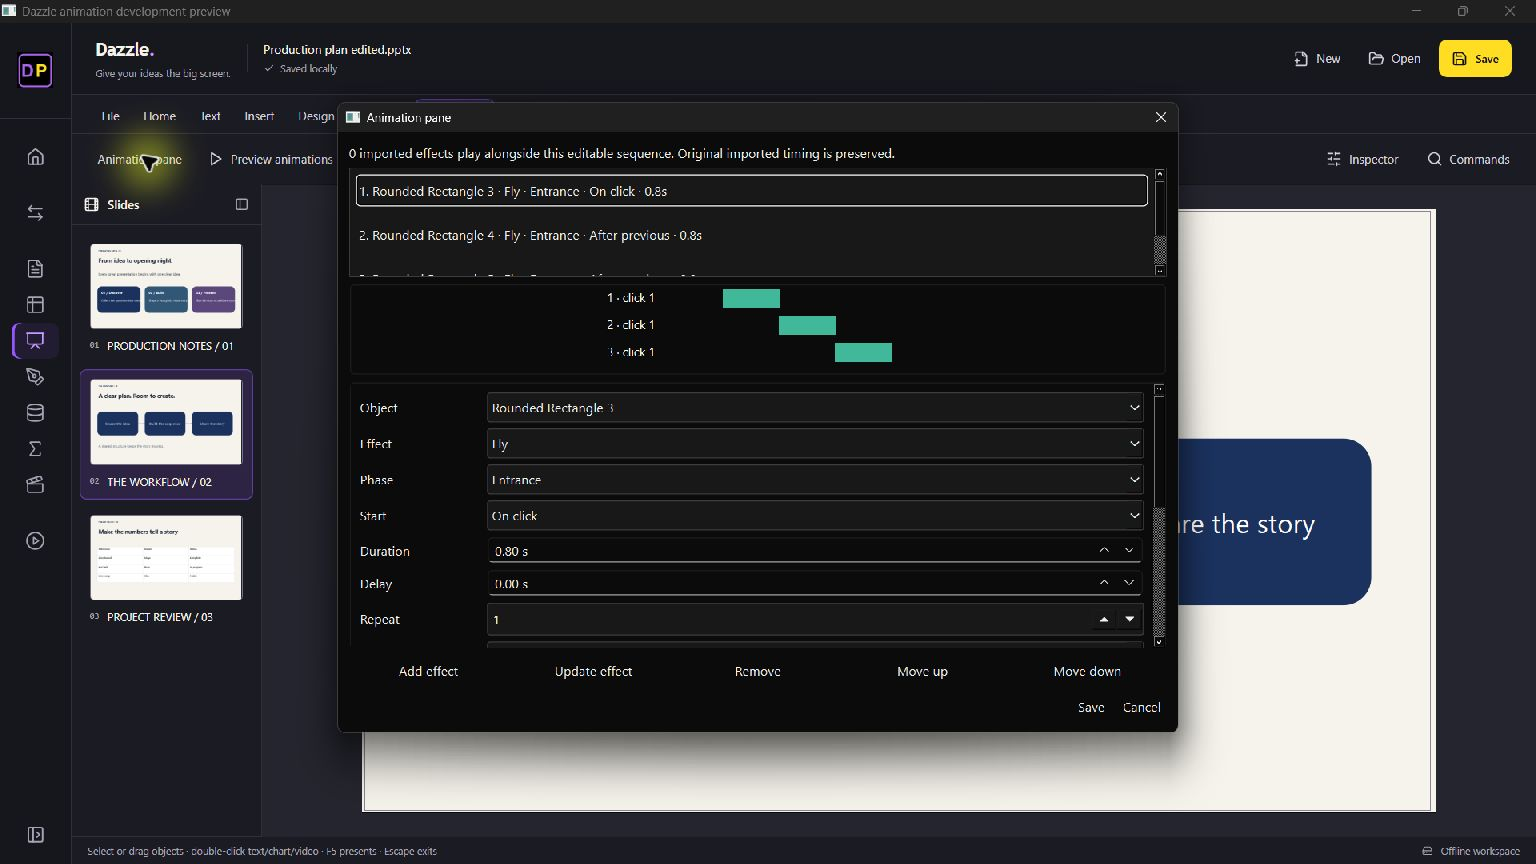
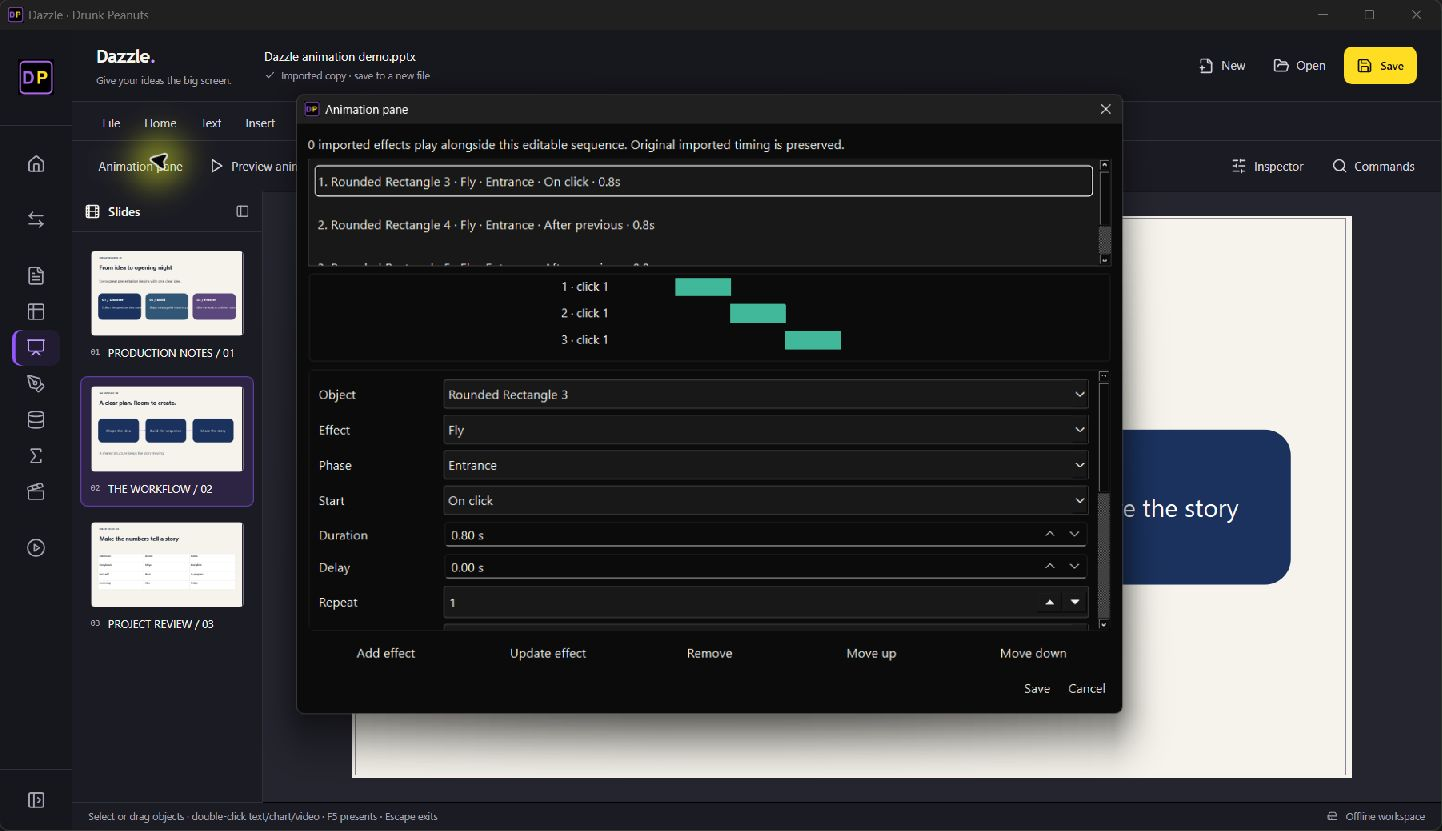
Show verified installed Dazzle animation screenshots

diff --git a/README.md b/README.md
@@ -12,7 +12,7 @@ The Stitch-inspired React interface spans **Pages, Tables, Dazzle, Organize, Ske
 
 **Dazzle 0.32 adds animation authoring and playback:** an animation pane with timing bars, 25 named effects, sequencing, easing, triggers and motion paths; transition controls; on-slide text editing; master/theme properties; a larger shape library; and a table grid editor. DeckCraft animation adaptations retain the upstream MIT notices. See the [0.32 capabilities and remaining compatibility work](docs/DAZZLE_032.md).
 
-![Dazzle animation workspace with a synthetic presentation](docs/dazzle-animation-workspace.png)
+![Installed Dazzle 0.32 animation workspace with a synthetic presentation](docs/dazzle-animation-workspace.png)
 
 ![Dazzle animation order and timing controls](docs/dazzle-animation-pane.png)
 
